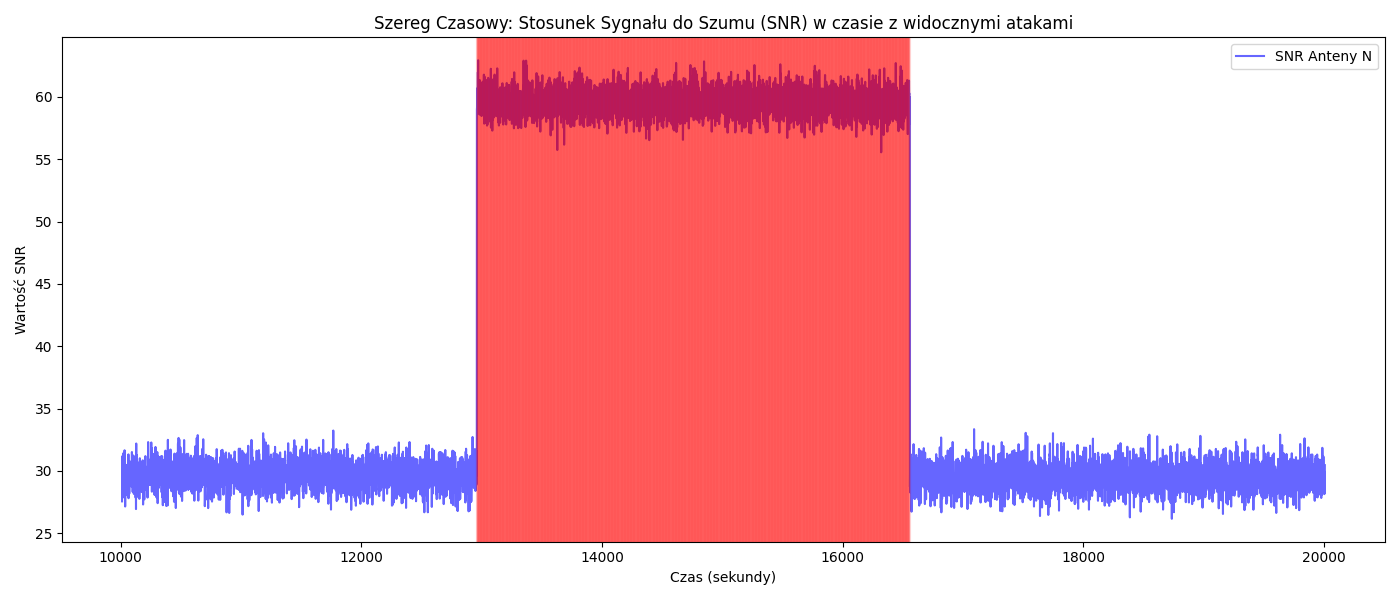
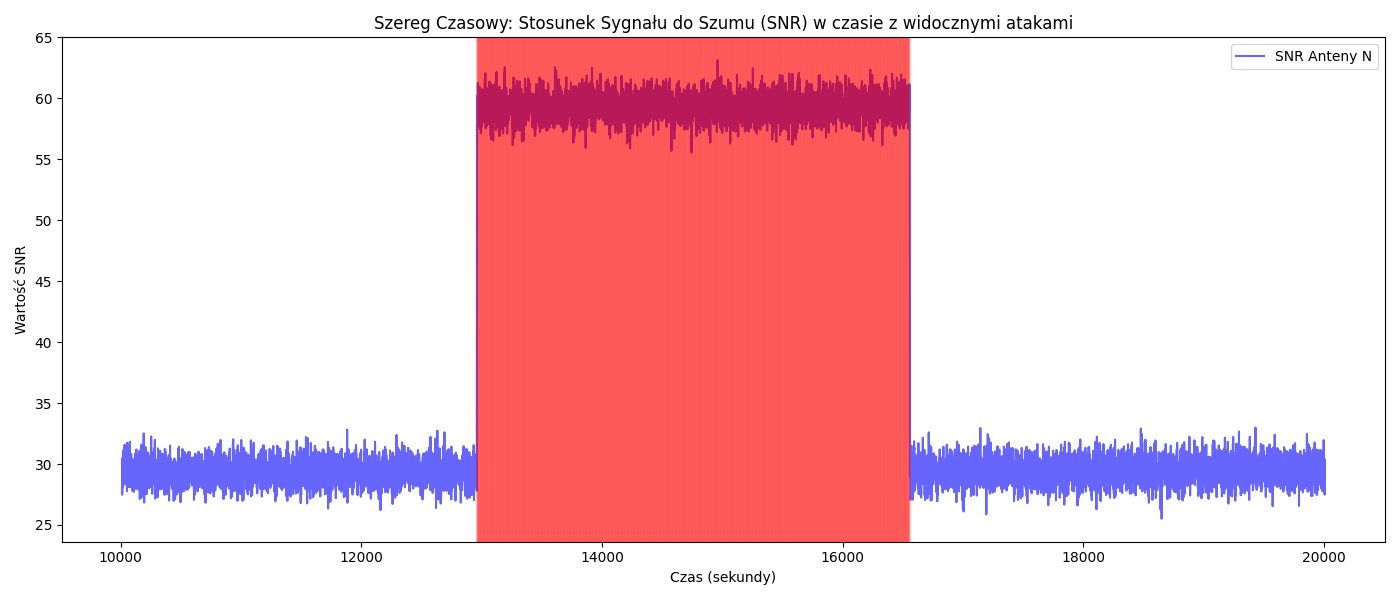
Download Data From WeatherStation

diff --git a/DataGenerator.py b/DataGenerator.py
@@ -4,6 +4,48 @@ import requests
 from skyfield.api import load, wgs84
 
 
+def get_real_weather_data(samples=86400):
+    print("   -> Pobieranie rzeczywistych danych meteo (Open-Meteo dla Gdańska)...")
+
+    # Darmowe API Open-Meteo (Gdańsk: 54.35N, 18.64E) - pobieramy minione 24h
+    url = "https://api.open-meteo.com/v1/forecast?latitude=54.35&longitude=18.64&hourly=temperature_2m,relative_humidity_2m,surface_pressure&past_days=1&forecast_days=0"
+
+    try:
+        response = requests.get(url).json()
+
+        # Pobieramy równe 24 godziny danych (24 punkty)
+        hourly_temp = response['hourly']['temperature_2m'][:24]
+        hourly_hum = response['hourly']['relative_humidity_2m'][:24]
+        hourly_press = response['hourly']['surface_pressure'][:24]
+
+        # Interpolacja liniowa (rozciągnięcie 24 punktów na 86 400 sekund)
+        t_hourly = np.linspace(0, samples, 24)
+        t_seconds = np.arange(samples)
+
+        temp_c = np.interp(t_seconds, t_hourly, hourly_temp)
+        humidity = np.interp(t_seconds, t_hourly, hourly_hum)
+        pressure = np.interp(t_seconds, t_hourly, hourly_press)
+
+        # Dodajemy mikroszumy sekundowe (np. nagłe podmuchy wiatru, wahania czujnika)
+        temp_c += np.random.normal(0, 0.05, samples)
+        humidity += np.random.normal(0, 0.2, samples)
+        pressure += np.random.normal(0, 0.02, samples)
+
+        print("   ✅ Pomyślnie pobrano i wyinterpolowano rzeczywistą pogodę!")
+        return temp_c, humidity, pressure
+
+    except Exception as e:
+        print(f"   ❌ Błąd pobierania pogody: {e}. Przełączam na tryb sztuczny.")
+        # Fallback - jeśli brak internetu, użyj starej metody z sin/cos
+        t_hours = np.arange(samples) / 3600.0
+        temp_c = 15 + 8 * np.sin(2 * np.pi * (t_hours - 9) / 24) + np.random.normal(0, 0.2, samples)
+        humidity = 70 + 20 * np.cos(2 * np.pi * (t_hours - 9) / 24) + np.random.normal(0, 1.5, samples)
+        humidity = np.clip(humidity, 10, 100)
+        pressure = 1013 + np.cumsum(np.random.normal(0, 0.05, samples))
+        pressure = np.clip(pressure, 990, 1030)
+        return temp_c, humidity, pressure
+
+
 # Powrót do 86400 sekund (pełne 24 godziny) i oryginalnej nazwy pliku
 def generate_meteo_blue_shield(samples=86400, filename='blue_shield_meteo_data.csv'):
     print(f"Tworzenie dobowej symulacji ({samples} sekund)...")
@@ -39,15 +81,12 @@ def generate_meteo_blue_shield(samples=86400, filename='blue_shield_meteo_data.c
         'E': wgs84.latlon(54.35, 18.70), 'W': wgs84.latlon(54.35, 18.58)
     }
 
-    print("2. Generowanie realistycznej pogody...")
-    t_hours = t_seconds / 3600.0
+    print("2. Generowanie realistycznej pogody (wywołanie API)...")
 
-    temp_c = 15 + 8 * np.sin(2 * np.pi * (t_hours - 9) / 24) + np.random.normal(0, 0.2, samples)
-    humidity = 70 + 20 * np.cos(2 * np.pi * (t_hours - 9) / 24) + np.random.normal(0, 1.5, samples)
-    humidity = np.clip(humidity, 10, 100)
-    pressure = 1013 + np.cumsum(np.random.normal(0, 0.05, samples))
-    pressure = np.clip(pressure, 990, 1030)
+    # Zastąpiona logika pogodowa - teraz korzystamy z funkcji wyżej
+    temp_c, humidity, pressure = get_real_weather_data(samples)
 
+    # Kp-index pozostaje bez zmian (to pogoda kosmiczna, trudniejsza do prostego wpięcia z API)
     kp_index = np.random.choice([1, 2, 3, 5], samples, p=[0.7, 0.2, 0.08, 0.02])
 
     df_data = {

diff --git a/GpsSpoofingCheck.py b/GpsSpoofingCheck.py
@@ -132,6 +132,6 @@ print("\n--- SZCZEGÓŁOWY RAPORT KLASYFIKACJI ---")
 print(classification_report(y_test, y_pred, target_names=['Normalny', 'Atak Naziemny', 'Atak Powietrzny']))
 
 # ZMIANA 2: Delikatnie inna nazwa modelu wyjściowego
-model_filename = 'blekitna_tarcza_meteo_small_model.keras'
+model_filename = 'blekitna_tarcza_meteo_model.keras'
 model.save(model_filename)
 print(f"\n✅ SUKCES! Zaawansowany model został zapisany jako '{model_filename}'")